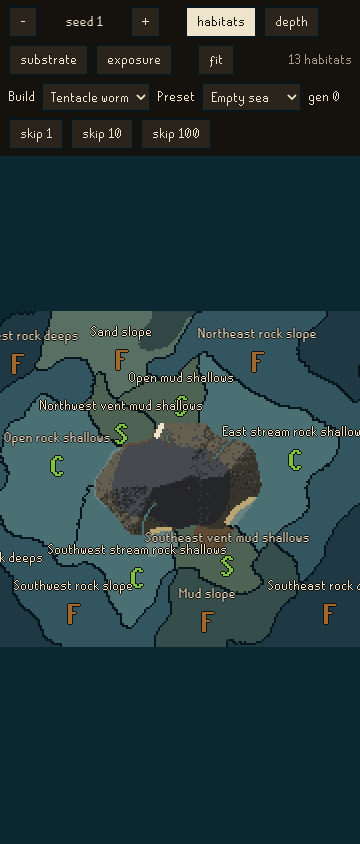
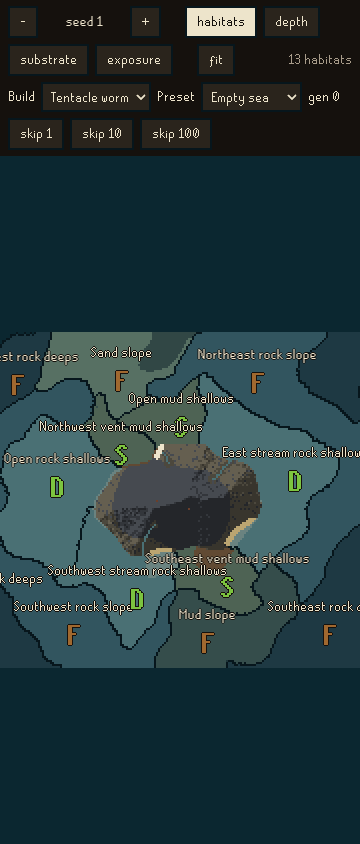
docs(N1): review, the user's 11 Nov calls, play notes and recaptured sheet

Changed region(s): [[0.0, 0.3697, 1.0, 0.8009]]

diff --git a/docs/slices/n1-the-core.md b/docs/slices/n1-the-core.md
@@ -37,20 +37,20 @@ card's three sentences; mat, plankton and detritus as foods).
      `fitness`; then `pop += damping × (target − pop)`. A population under two heads' mass dies out.
   1. *Regrow:* `stock += regrow × (ceiling − stock)`, one rate per food. It runs after breeding, so the stored stock
      is the standing food: what the next eaters find and what every letter reads.
-  5. *Spread:* where the predicted letter is C or better, `pop × spread × border ÷ perimeter` grams move to each
+  5. *Spread:* where the newcomer would grow at today's food (*11 Nov*; was "C or better"), `pop × spread × border ÷ perimeter` grams move to each
      neighbour (that neighbour's border length over the habitat's whole border). A move under two heads' mass stays
      home.
   `fitness`'s intake reads food per tile (`stock ÷ area`, against a reference density in data). So a habitat's size
   changes how much lives there, not its letter, and a grazed-down habitat scores lower for newcomers and residents.
-  **The letter is the growth rate** (*Claude's review, 10 Nov*): a population grows while appetite × value > deaths,
-  so C's floor sits at that break-even. A fresh habitat reads its full letter; a settled holder reads C at home (it
-  just replaces itself); a stronger newcomer reads above it and takes the slot, a weaker one reads below and dies.
+  **Letters rank the build at full food** (*decided 11 Nov*, replacing 10 Nov's "the letter is the growth rate"): D
+  starts at break-even (appetite × value = deaths), ×1.5 per letter, so a higher letter always wins its slot. Growth
+  and spread read today's food: a newcomer moves only where it would grow. Grams ×10 (*11 Nov*).
 
 **Session 2: the screens, on N0's map.**
 - **E. The tier card** (`ui/TierCard.svelte`): one build in one slot: the letter and three term lines. N0's habitat
   card lists its slots with their holders' cards, and a small graph of stocks and populations over 160 generations.
-  Map labels show each slot's holder as a letter in the slot's accent. Letters read the current food (*decided 10
-  Nov*), so `fitness`'s intake sentence names the food left ("grazes mats, food at 38%"): a C holder makes sense.
+  Map labels show each slot's holder as a letter in the slot's accent. Letters rank the build (*11 Nov*); `fitness`'s
+  intake sentence names the food left ("grazes mats, food at 38%").
   The graph's history is kept by the UI as generations pass, never in the world record (law 2).
 - **F. The placement preview:** a build picker in the dev bar. The map shows the picked build's best letter per
   habitat; a tap shows its cards there; **Place** founds a population of 20 heads (20 × the body's mass in grams; N2's eggs do this later).
@@ -67,17 +67,17 @@ card's three sentences; mat, plankton and detritus as foods).
 - Cutting the parts you never use (ideas.md, 9 Nov): after the N4 play test; the table is ported whole.
 
 ## Done when
-- [ ] **Play question** (sheet or `/clade/`): on two seeds, do three worm builds get letters per habitat you agree
+- [x] **Play question** (sheet or `/clade/`): on two seeds, do three worm builds get letters per habitat you agree
   with, and does skip 100 move them where the preview said? Do the graphs swing and settle, not flatline or explode?
-- [ ] Tests: §6 laws 1–5 and 7 (only `fitness` makes a letter, and the sea, card and preview call it; the world
+- [x] Tests: §6 laws 1–5 and 7 (only `fitness` makes a letter, and the sea, card and preview call it; the world
   record holds no slot, tier or role; more upkeep never raises fitness, a food removed drives its eaters down; every
   clade but the root has a parent; ≤ 6 stats, 10 genes, 4 stocks; `sim` imports no view or ui). Law 6: 160
   generations of 16 habitats × 8 species under 100 ms. Same seed and preset, same sea after 160 generations. A
   species never spreads into a habitat where its predicted tier is below C.
-- [ ] `npm run check` passes in under 10 s.
-- [ ] The sheet: the preview for three builds on one seed; one habitat card with slots and graph; the map after skip
+- [x] `npm run check` passes in under 10 s.
+- [x] The sheet: the preview for three builds on one seed; one habitat card with slots and graph; the map after skip
   100 from *three worms*. Three lines in `docs/status.md`.
-- [ ] Your notes are in `docs/playtests/n1-the-core.md`.
+- [x] Your notes are in `docs/playtests/n1-the-core.md`.
 
 ## Size check
 - **New systems:** one, the sea's populations with `fitness` as its only rule; the card and preview are views of it.

diff --git a/docs/status.md b/docs/status.md
@@ -1,5 +1,34 @@
 # Status
 
-10 Nov 2026 · M2/N1 session 2, branch `n1-the-core`: E `6a8cab7`, F `ba62a9a`, G this commit; local only. Final `npm run check` passed in 8.6 s (41 tests); browser checks and 360 px / desktop captures passed without errors.
-Claude: review E–G and the [360 px / desktop sheet](playtests/n1-sheet/README.md): current-food letters, slot holders, 20-head placement, UI-only history and presets; seeds 1 and 2 spread after skip 100. User play review remains.
-Arbitrary preset choices: midgame starts five groups, gives one lean Tentacles rank and advances 100 generations; founders use 20 heads. Existing mud ×3, Gut gland and spread-cutoff tuning stays open. Start a fresh session for the review or next slice.
+11 Nov 2026 · **M2, step 8 N1 done; step 9 N2 (the Life) is next.** Branch `n1-the-core`, local, fixes uncommitted.
+
+**Done (Claude, N1 review):**
+- The user's play notes: `docs/playtests/n1-the-core.md`. Review measured on seeds 1–2 over 200 generations.
+- Letters rank the build at full food: a ladder from break-even (D), ×1.5 per letter, F can't live there
+  (`clade/src/data/sea.ts`, `sim/fitness.ts`, `Fitness.full` in `sim/records.ts`). Growth and spread read today's
+  food; a newcomer spreads only where it would grow (`sim/sea.ts`).
+- Grams ×10 (yields, reference density, slot floor). Rivals is now tentacle worm (B) against bare worm (C)
+  (`data/presets.ts`). The test fixtures were rescaled and the home-letter test rewritten; no new tests.
+- Result: holder letters S–D all appear (seed 2: S 2, A 3, B 6, C 5, D 3); about 100 kg per sea; Rivals spreads to
+  6–8 habitats and the bare worm loses by about generation 60. Sheet recaptured: `docs/playtests/n1-sheet/`.
+- `npm run check` passed in 5.3 s (41 tests).
+- Updated: decisions.md, tastes.md, ideas.md (r vs K, sea swings, life history), the N1 spec, `whole-game-build.md` §3 and §6, ROADMAP (N1 ticked).
+
+**Decided (user, 11 Nov; full list in decisions.md):** letters rank the build; grams ×10; gut gland unchanged; sea
+dynamics wait for N4; each egg founds a fixed brood of heads; the sea uses adult size; Codex builds N2; no Fable
+consult before N4.
+
+**Next:**
+1. User: commit the fixes on `n1-the-core` and decide whether to merge it into `main` before N2.
+2. `/kickoff N2 spec`: write `docs/slices/n2-the-life.md` with a Codex build brief. Port by bins:
+   - *Copy as is:* grid, movement, tunnelling, verbs, hunter, threats, body-hurt, nodes; `data/life` numbers;
+     floor, camera, fx, tween and body drawing.
+   - *Write fresh:* the clade `Build`, Grow/Enforce/Lay (§4), `boardFor(habitat, world, seed)`, `found()`, Colonise.
+   - *Drop:* buds and larva (`plan.ts`), moult picks, `tierOf`, garden, `sea-*`.
+   - *The coherence points:* the board samples the sea (density, upkeep, reach); Enforce shows its payback; the
+     economy lives in its own module.
+
+**Open:**
+- Heads per egg (the founding number) and the Enforce cost curve: set in the N2 spec.
+- The user asked whether to put the current `game/` build on itch now for early feedback (Claude's advice in chat;
+  no call yet).

diff --git a/docs/playtests/n1-sheet/README.md b/docs/playtests/n1-sheet/README.md
@@ -1,4 +1,4 @@
-# N1 screen sheet · 10 Nov 2026
+# N1 screen sheet · 10 Nov 2026, recaptured 11 Nov after the review fixes
 
 Seed 1 at 360 × 844 and 1440 × 1000. Each build has its map preview and tapped cards; the last two rows start
 from **Three worms** and skip 100. The habitat card is **Open mud shallows**, with both slots held.
@@ -20,14 +20,14 @@ Reproduce with `W=360 H=844 npm run look -- /clade/ scripts/look/n1-sheet.json` 
 `W=1440 H=1000 npm run look -- /clade/ scripts/look/n1-sheet.json`. Shots land in `.shots/n1-*.png`.
 The script also checks midgame and runs Three worms on seed 2. No browser errors in either capture.
 
-Observed: seed 1 spreads from 3 to 13 occupied habitats; the sclerite worm loses its mat slot to tentacles.
-In Open mud shallows, tentacles hold 287 heads with mats at 19%; bulbs hold 602 heads with detritus at 10%.
-Both read C. Food falls, populations overshoot and settle; the graph keeps every generation on one grams axis.
-Seed 2 reaches all 15 habitats, with sclerite worms still holding two sand habitats. These are observations for
-Claude and the user's play review, not a tuning verdict.
+Observed after the 11 Nov fixes (letters rank the build at full food, grams ×10, spread where a newcomer would grow):
+three worms hold about 100 kg per sea, 0.5–20 kg per habitat. Holder letters after 200 generations on seed 2: S 2,
+A 3, B 6, C 5, D 3. In Open mud shallows the tentacle worm (S) holds 2,919 g with mats at 19%. Rivals (tentacle worm
+B against bare worm C) spreads to 6–8 habitats; the bare worm is gone by about generation 60.
+(10 Nov, before the fixes: every settled holder read C or D, and Rivals tied 50/50 in one habitat.)
 
 Preset choices to review: founders use 20 heads; groups start apart in their strongest available shared fit
-(First worm requests shallows; Rivals requests sand shallows, with the best remaining ground as fallback).
+(First worm requests shallows; Rivals (tentacle and bare worm since 11 Nov) requests sand shallows, with the best remaining ground as fallback).
 Midgame starts five groups, grants the worm line one lean Tentacles rank, and advances 100 generations.
 The existing worm mud multiplier, Gut gland bonus and two-head spread cutoff are unchanged.
 

diff --git a/docs/decisions.md b/docs/decisions.md
@@ -744,3 +744,20 @@ From Claude's [review](design/m2-review-8-nov.md) and the [TierZoo concepts](des
 - **Letters read the current food:** "current food makes most sense, i agree, tier should always reflect the current
   fit of a species" (N1 open call). A settled holder reads C at home; the card's intake line shows the food left.
 - **Codex builds N1 session 2 (E–G):** "i want to do implementation in codex". Claude reviews the diff after.
+
+## 11 Nov, the N1 review (step 8)
+- **Letters rank the build, at full food** (reverses 10 Nov's "letters read the current food"): "letters ranking the
+  build is definetley what i want … leters should always classify the build itself and how it fits in the
+  meta/habitat/ecosystem". Why: every settled holder grazes to its break-even, so a current-food letter read C for all
+  of them. The ladder starts D at break-even, ×1.5 per letter; F can't live there. D lives thinly and is easily
+  replaced; a higher letter always wins its slot. Growth and spread still read today's food: a newcomer moves only
+  where it would grow. The card names the food left. Hunters enter later as the survival term (N4).
+- **Grams ×10:** "scaling grams works, but maybe not 100x? maybe start with around 10x." Founders stay 20 heads.
+- **Rivals** becomes the tentacle worm against the bare worm; the arthropod's edge comes later (N4's armour).
+- **Gut gland unchanged** ("changes later"); **sea dynamics wait** for N4 ("wait for dynamics from future steps
+  first"); **few new tests.**
+- **Eggs to founders:** each egg stands for a fixed brood of heads ("makes sense"); r vs K parked in `ideas.md`.
+- **The sea uses the adult (full-grown) size** for now; growth stages in populations parked.
+- **N2:** the Life is ported by bins (copy the board as is, write the joints fresh from the brief, drop the rest);
+  the three coherence points (the board samples the sea, Enforce as payback, the economy in its own module);
+  purpose is Colonise only; **Codex builds N2**; no Fable consult before N4 ("i lean port for now").

diff --git a/docs/design/whole-game-build.md b/docs/design/whole-game-build.md
@@ -64,9 +64,10 @@ capacity. This is not v1's tile simulation: tiles are ground and paint, never ru
   same habitat state and seed give the same board.
 - **The sea step,** per habitat and generation: (1) *regrow* stocks toward their ceiling; (2) *eat*: when food is
   short, split it by population × fitness; (3) *breed and die*: eaten × brood ÷ upkeep, less base deaths; (4) *hunt*:
-  the commonest prey most; (5) *spread* to neighbours where the predicted tier is C or better, by border length;
+  the commonest prey most; (5) *spread* to neighbours where the newcomer would grow at today's food, by border length;
   (6) *drift and bud*, rarely; (7) *engineer*; (8) *news*: for any change over about 30%, name the largest term.
-- **Swings** come from the one-generation lag between a food and its eaters, with one damping number to tune.
+- **Swings:** the lag between a food and its eaters gives one overshoot, then the sea settles (measured, N1). Lasting
+  swings wait for N4's hunters (*decided 11 Nov*); seasons are parked.
 - **Cost:** 16 habitats × 8 species × 160 generations is milliseconds. v1's island generator and habitat finder may be
   ported (`CLAUDE.md` rule 8 allows it when a spec carries them).
 
@@ -151,7 +152,7 @@ fitness(build, ranks, slot, habitat, world) → { intake, upkeep, survival, valu
 intake   = sum over the slot's foods of reach(food) × share of stock     reach is 0 when the food is locked for this build
 upkeep   = base(size) + part upkeeps − lean ranks
 survival = product over hunters and hazards here of 1 − threat × (1 − guard)
-value    = intake ÷ upkeep × survival × brood        letter = value against fixed thresholds per slot
+value    = intake ÷ upkeep × survival × brood        letter = value at full food on a ×1.5 ladder from break-even (D)
 ```
 **Laws, kept as tests:**
 1. Only `fitness` makes a tier letter. The sea, the preview, the tier card and the Life's richness all call it.

diff --git a/docs/ideas.md b/docs/ideas.md
@@ -192,3 +192,6 @@ v1's file: `_v1/docs/ideas.md`. Marks: **(you)** your idea · **(AI)** AI idea.
 - The island: one or two main peaks instead of always a ridge (you, 10 Nov: "no priority"). For L1 or R10.
 - Exposure as flow: open water feeds filterers more (whole-game.md's "filter: intake rises with height and flow"); sheltered water favours mats and mud. Today exposure only classes, names and shapes flats. AI, 10 Nov. For the filterers (after release) or R7.
 - Saving (step A): store only seed, stocks, pops, species and lineages; today's `World` also holds the habitat geometry the seed rebuilds (law 2). AI, 10 Nov. For step A.
+- r vs K: small bodies lay more eggs, big ones fewer but heavier (you, 10 Nov, N1 review). With grams, founders = eggs × heads per egg × body mass, so one egg cost by size would make the trade. For R5 (size as a gene).
+- The sea keeps swinging: hunters whose appetite levels off (type II) cycle with their prey; or seasons (mats yield on a slow sine). You, 10 Nov: wait for the dynamics N4 brings first. For N4.
+- Life history in the sea: populations as a mix of growth stages; fast or slow growth, long or short life, longer or shorter larval stages as traits (you, 11 Nov: "sounds too complicated for now"). The sea uses the adult size until then. After release, or R5 if genes ask for it.

diff --git a/ROADMAP.md b/ROADMAP.md
@@ -23,7 +23,7 @@ Design: [docs/design/full-version.md](docs/design/full-version.md). **Staying on
 stays playable until the new game passes the play test after N4. Slice 23 is re-cut: its parts land in N4, R5, R7, R8.
 
 7. [x] **N0** [The ground](docs/slices/n0-the-ground.md): terrain kinds, the habitat finder, names, a bare zoomable map, the palette file · 1 session
-8. [ ] **N1** [The core](docs/slices/n1-the-core.md): the records, `fitness`, slots, the sea step, tier cards, the placement preview, dev presets · 2
+8. [x] **N1** [The core](docs/slices/n1-the-core.md): the records, `fitness`, slots, the sea step, tier cards, the placement preview, dev presets · 2
 9. [ ] **N2** The Life, ported, with Grow, Enforce and Lay; a purpose per Life; eggs found a population · 2
 10. [ ] **N3** The screens: home map, hatching, the line view, the tree with its trunk · 2
 11. [ ] **N4** Who eats whom; wild branches; displace and adopt; patch notes with a cause · 2

diff --git a/docs/playtests/n1-the-core.md b/docs/playtests/n1-the-core.md
@@ -1,0 +1,12 @@
+# N1 play notes
+
+10 Nov 2026, the user, after playing `/clade/` and the [sheet](n1-sheet/README.md). Recorded in the user's words.
+
+- "there isn't a lot to playtest, but everything looks fine."
+- "currently worms 1g per worm, and there is around 500g biomass per patch, which seems really low."
+- "otherwise i like the current approach and everything looks good."
+- "everything seems really static which might be normal."
+- "in some patches the biomass of the worms is a lot lower than the remaining stocks, which also makes sense."
+- "in the rivals scenario one patch held 3400 grams of stocks and 200g of worms, and they didn't eat more of the
+  algae, this makes sense for lower tier species i think."
+- "before populations were more dynamic. populations and stocks seem to correlate well though."

diff --git a/docs/tastes.md b/docs/tastes.md
@@ -36,7 +36,8 @@ has to fit.
 - **Adapting has to feel like adapting.** Buying every trait isn't it. Not every stat can be improved: some choices
   trade ("more spread while drying out more", 26 Oct).
 - **Tiers like a game tier list** (S, A, B…), not bronze/gold or stars (26 Oct). Niches × tiers with "some light
-  ladder feeling" (2 Nov).
+  ladder feeling" (2 Nov). **A letter classifies the build itself** and how it fits the meta, habitat and ecosystem, not
+  today's food; low tiers live but are easily replaced (11 Nov).
 - **Lineages are your characters;** you grow one thing the whole time (29 Oct). The first lineage is a plant (1 Nov).
   The game starts at home, at the vent.
 - Breeding yes, but scarce. Stakes: species die out and the game goes on.

diff --git a/docs/README.md b/docs/README.md
@@ -3,8 +3,8 @@
 Open only what the task needs. Top to bottom is the order of authority: when two docs disagree, the higher one
 wins (and the code is the truth for what's built).
 
-**Current task:** M2 step 7, [N0 The ground](slices/n0-the-ground.md): the first step of the rebuild in `clade/`. Start with [status.md](status.md)
-and that spec; open the documents below only as the task needs them.
+**Current task:** M2 step 9, N2 The Life (spec next; N1 done 11 Nov). Start with [status.md](status.md)
+and the step's spec; open the documents below only as the task needs them.
 
 | File | What it holds | Who changes it | When to read it |
 | --- | --- | --- | --- |
